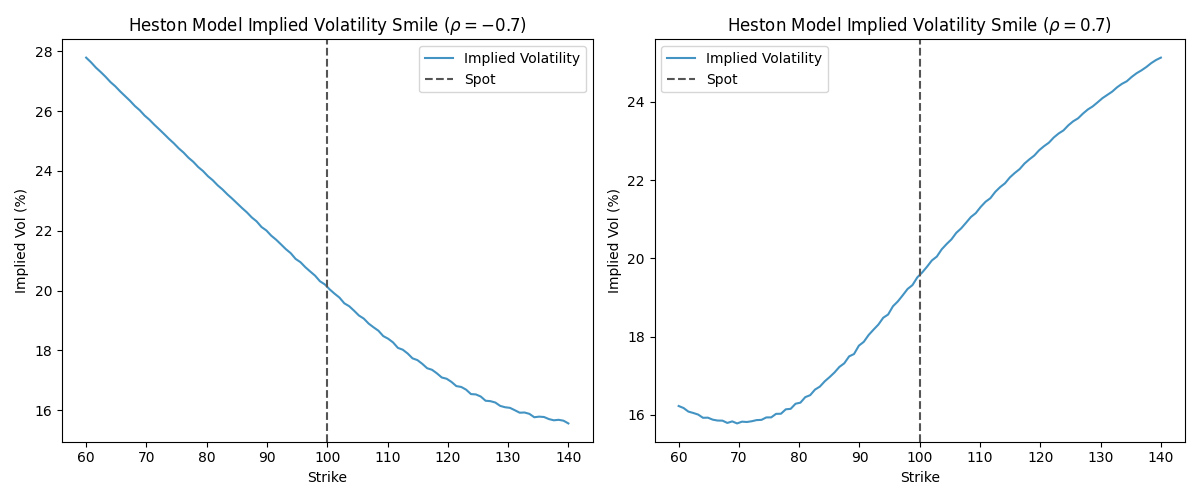
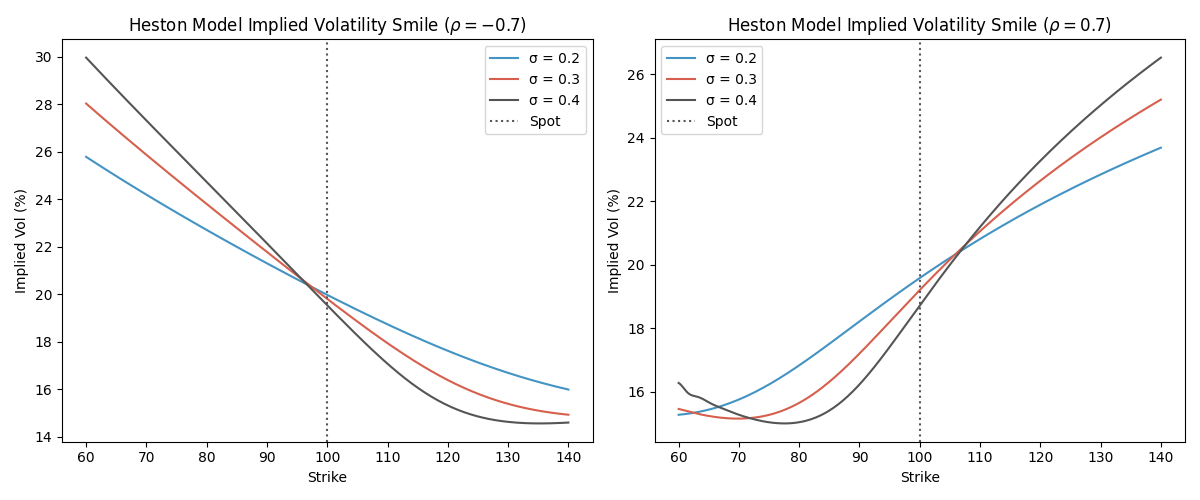
volatility smile

diff --git a/black_scholes/closed.py b/black_scholes/closed.py
@@ -1,4 +1,5 @@
 import numpy as np
+from scipy.optimize import brentq
 from scipy.stats import norm
 
 
@@ -70,9 +71,16 @@ def theta(S, K, r, sigma, T, option_type="put"):
     raise ValueError("option_type must be 'call' or 'put'")
 
 
-def implied_volatility(price, S, K, r, T, option_type="put", tol=1e-6, max_iterations=1000):
+def implied_volatility(price, S, K, r, T, option_type="put", tol=1e-6,
+                       sigma_lo=1e-6, sigma_hi=10.0, max_iterations=1000):
     """
-    Implied volatility by Newton-Raphson inversion of the Black-Scholes formula.
+    Implied volatility by Brent inversion of the Black-Scholes formula.
+
+    Brent's method is derivative-free and bracketed, so it cannot diverge or
+    drive sigma negative the way an unguarded Newton-Raphson step can when vega
+    is small (e.g. deep in/out-of-the-money strikes in the wings of a smile).
+    Prices outside the no-arbitrage bounds have no implied volatility and return
+    NaN.
 
     Parameters
     ----------
@@ -89,27 +97,27 @@ def implied_volatility(price, S, K, r, T, option_type="put", tol=1e-6, max_itera
     option_type : {'put', 'call'}, optional
         Type of option (default 'put').
     tol : float, optional
-        Convergence tolerance on the price residual (default 1e-6).
+        Convergence tolerance on sigma (default 1e-6).
+    sigma_lo, sigma_hi : float, optional
+        Bracket for the search; volatility is assumed to lie in this range.
     max_iterations : int, optional
-        Maximum Newton-Raphson iterations (default 1000).
+        Maximum Brent iterations (default 1000).
 
     Returns
     -------
     sigma : float
-        Implied volatility (annualised).
+        Implied volatility (annualised), or NaN if no solution exists in the
+        bracket (e.g. the price violates the no-arbitrage bounds).
     """
-    sigma = 0.2
-    for _ in range(max_iterations):
-        price_estimate = black_scholes(S, K, r, sigma, T, option_type)
-        vega = (S * norm.pdf((np.log(S / K) + (r + 0.5 * sigma ** 2) * T) / (sigma * np.sqrt(T))) * np.sqrt(T))
+    def objective(sigma):
+        return black_scholes(S, K, r, sigma, T, option_type) - price
 
-        price_diff = price_estimate - price
-        if abs(price_diff) < tol:
-            return sigma
+    # Brent requires a sign change across the bracket; otherwise the price lies
+    # outside the achievable range and no implied volatility exists.
+    if objective(sigma_lo) * objective(sigma_hi) > 0:
+        return np.nan
 
-        sigma -= price_diff / vega
-
-    return np.nan  # Return NaN if convergence fails
+    return brentq(objective, sigma_lo, sigma_hi, xtol=tol, maxiter=max_iterations)
 
 
 class BlackScholes: